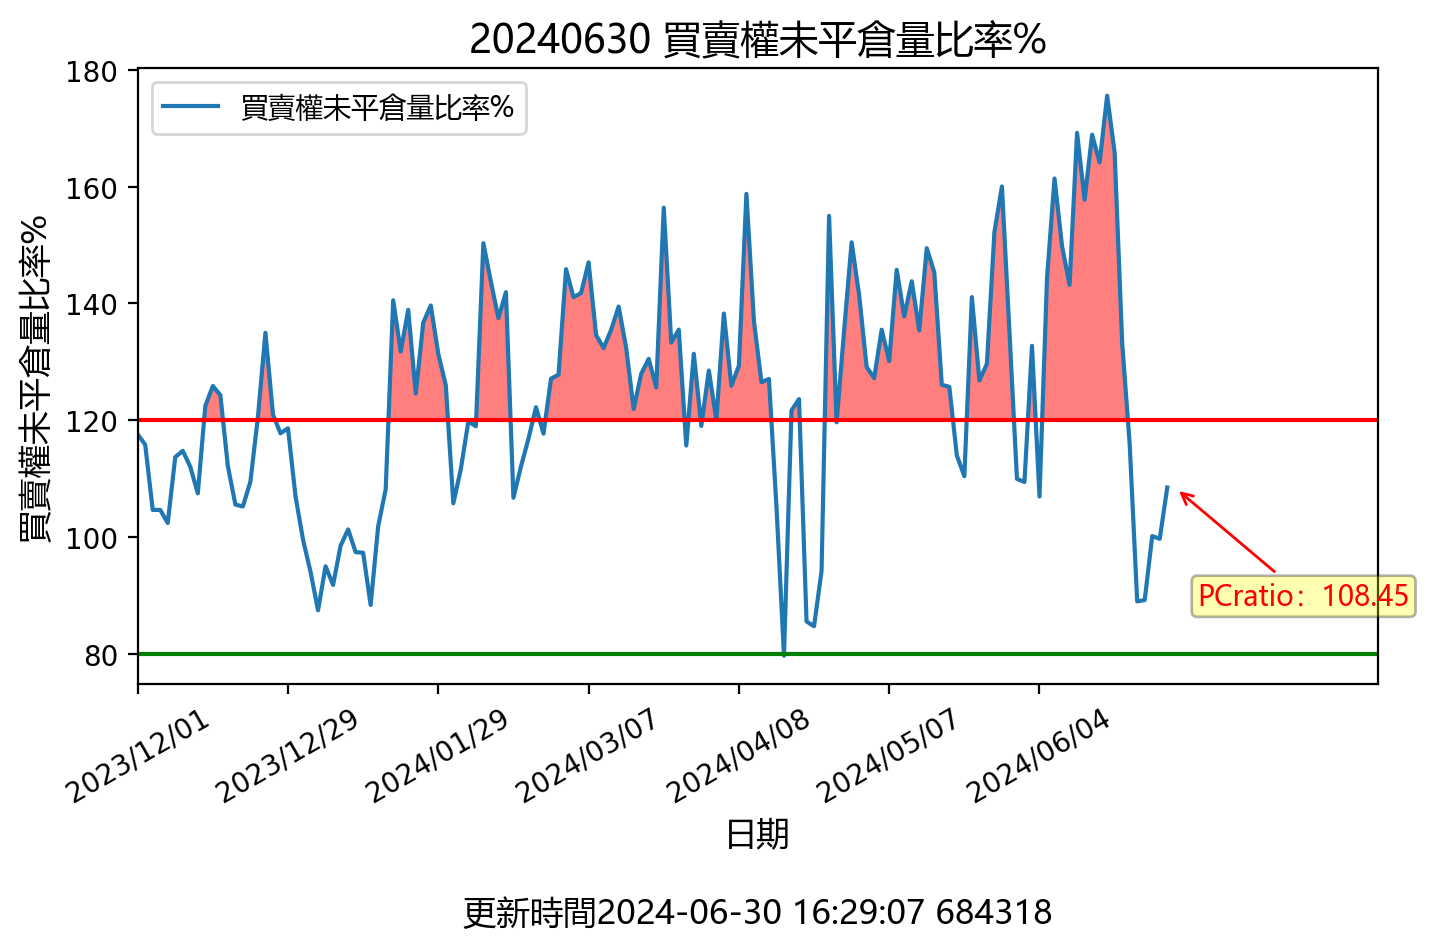
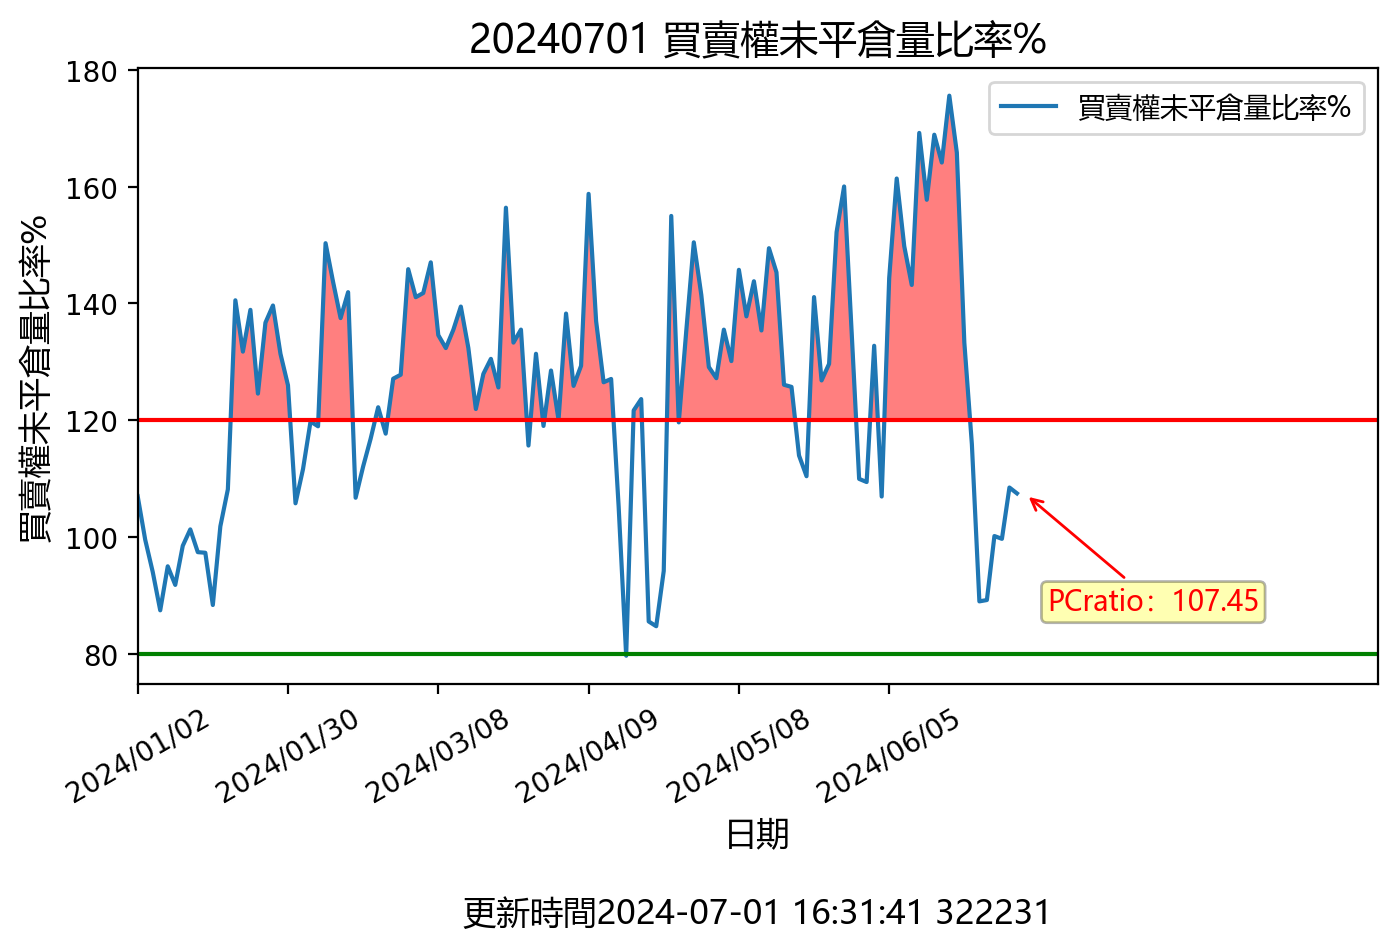
更新時間: Mon Jul  1 16:31:53 CST 2024

diff --git a/README.md b/README.md
@@ -1,9 +1,9 @@
-## 20240630 台指期「預估換倉成本」
+## 20240701 台指期「預估換倉成本」
 ![](txfcost.png)
 
-## 20240630 台指期「散戶小台多空比」
+## 20240701 台指期「散戶小台多空比」
 ![](bbiri.png)
 
-## 20240630 台指選擇權「Put/Call Ratios」
+## 20240701 台指選擇權「Put/Call Ratios」
 ![](pcratio.png)
 
